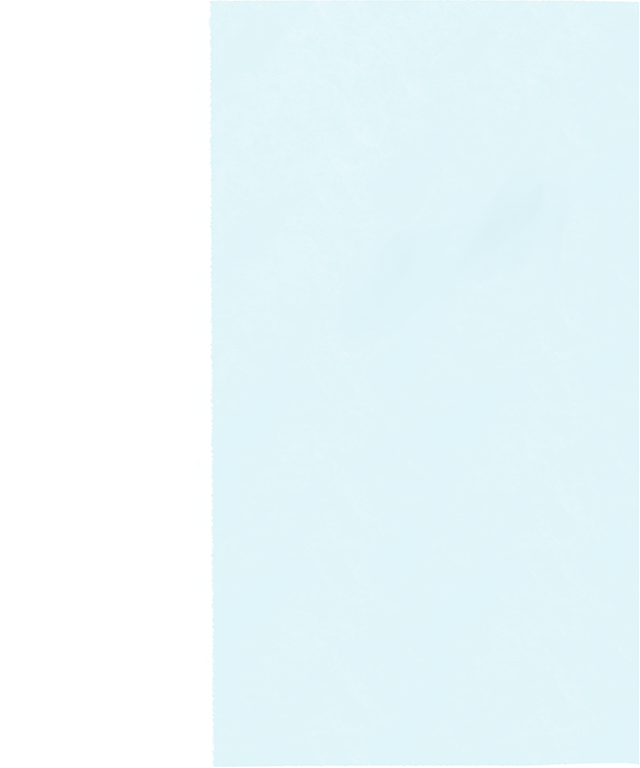
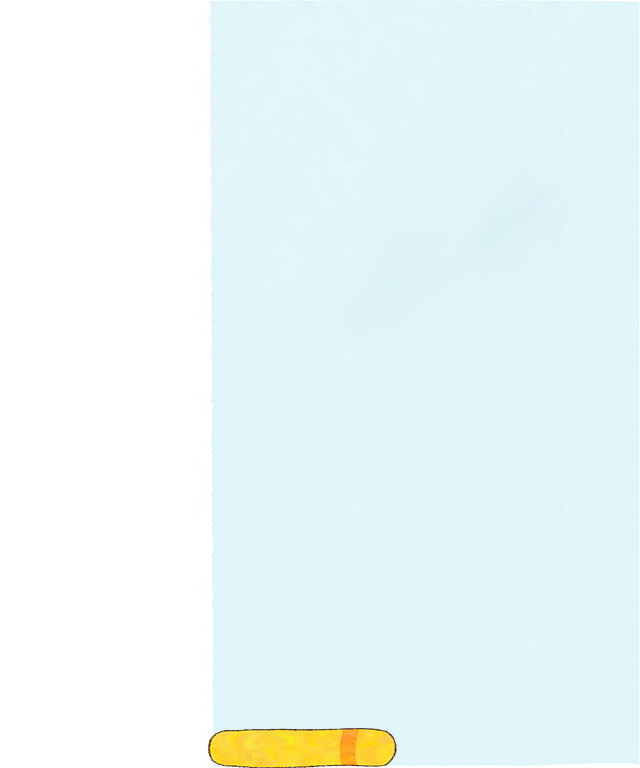
总体六

Changed region(s): [[0.3125, 0.9375, 0.625, 1.0]]

diff --git a/js/taskFirst/taskFirst.js b/js/taskFirst/taskFirst.js
@@ -3,10 +3,10 @@ function getQueryParam(param) {
     return urlParams.get(param);
 }
 
-// const selected = getQueryParam('selected');
-const taskCompleted = getQueryParam('taskCompleted');
+var selected = getQueryParam('selected');
+var taskCompleted = getQueryParam('taskCompleted');
 
-const selected = 'paintingFirst';
+// var selected = 'paintingFirst';
 
 var isTouchDevice = 'ontouchstart' in window || navigator.maxTouchPoints > 0;
 var eventType = isTouchDevice ? 'touchend' : 'click';
@@ -146,11 +146,162 @@ $(document).ready(function(){
 	});
 	
 	$('.container').on(eventType, '.kettleShined', function(){
-	    $('<img>', {
-	        'class': 'waterFirst',
-	        'src': 'images/task1/waterFirst.png',
-	        'alt': '水'
-	    }).appendTo('.container');
+	    var $movingImg = $('<img>', {
+	        'src': 'images/task1/kettleWatering.png',
+	        'alt': '浇水的水壶',
+	        'class': 'kettleWatering'
+	    });
+		
+	    $movingImg.appendTo('.container');
+	    
+	    var onAnimationEnd = function() {
+			$movingImg.remove();
+	        $('.kettleShined, .promptKettle').remove();
+	    
+	        $('<img>', {
+	            'class': 'waterFirst',
+	            'src': 'images/task1/waterFirst.png',
+	            'alt': '水'
+	        }).appendTo('.container');
+	    
+	        var additionalImages = [
+	            {
+	                class: 'brushShined',
+	                src: 'images/task1/brushShined.png',
+	                alt: '排刷'
+	            },
+	            {
+	                class: 'promptBrush',
+	                src: 'images/task1/promptBrush.png',
+	                alt: '提示'
+	            }
+	        ];
+	    
+	        $.each(additionalImages, function(index, image) {
+	            $('<img>', {
+	                'class': image.class,
+	                'src': image.src,
+	                'alt': image.alt
+	            }).appendTo('.container');
+	        });
+	    };
+    
+        var animationProperties = {
+            'bottom': '60%',
+            'left': '60%'
+        };
+        var duration = 1500;
+    
+        
+        $movingImg.animate(animationProperties, duration, onAnimationEnd);
+	});
+	
+	$('.container').on(eventType, '.brushShined', function(){
+		var $movingImg = $('<img>', {
+			'src': 'images/task1/brushWorking.png',
+			'alt': '刷东西的排刷',
+			'class': 'brushWorking'
+		});
+				
+		$movingImg.appendTo('.container');
+			    
+		var onAnimationEnd = function() {
+			$movingImg.remove();
+		    $('.brushShined, .promptBrush, #dirt').remove();
+		
+		    var additionalImages = [
+		        {
+		            class: 'towelShined',
+		            src: 'images/task1/towelShined.png',
+		            alt: '水盆毛巾'
+		        },
+		        {
+		            class: 'promptTower',
+		            src: 'images/task1/promptTowel.png',
+		            alt: '提示'
+		        }
+		    ];
+		
+		    $.each(additionalImages, function(index, image) {
+		        $('<img>', {
+		            'class': image.class,
+		            'src': image.src,
+		            'alt': image.alt
+		        }).appendTo('.container');
+		    });
+		};
+		
+		var animationProperties = {
+		    'top': '60%',
+		    'left': '60%'
+		};
+		var duration = 1500;
+		
+		$movingImg.animate(animationProperties, duration, onAnimationEnd);
+	});
+	
+	$('.container').on(eventType, '.towelShined', function(){
+	    $('.waterFirst').fadeOut(800, function() {
+	        $(this).remove();
+	    
+	        var $waterSecond = $('<img>', {
+	            'class': 'waterSecond',
+	            'src': 'images/task1/waterSecond.png',
+	            'alt': '水'
+	        }).hide().appendTo('.container');
+	
+	        $waterSecond.fadeIn(800).delay(500).fadeOut(800, function() {
+	            $(this).remove();
+	
+	            var $waterThird = $('<img>', {
+	                'class': 'waterThird',
+	                'src': 'images/task1/waterThird.png',
+	                'alt': '水'
+	            }).hide().appendTo('.container');
+	
+	            $waterThird.fadeIn(800).delay(500).fadeOut(800, function() {
+	                $(this).remove();
+					
+					var newImages = [
+					    {class: 'backgroundProgressbar', src: 'images/progressbar/background.png', alt: '背景图'},
+					    {class: 'progressbar', src: 'images/progressbar/bar.png', alt: '进度条底'},
+					    {class: 'progressbarPrompt', src: 'images/progressbar/prompt.png', alt: '提示'}
+					];
+				
+					$.each(newImages, function(index, image) {
+					    $('<img>', {
+					        'class': image.class,
+					        'src': image.src,
+					        'alt': image.alt
+					    }).appendTo('.container');
+					});
+				
+					var $div = $('<div>', {
+					    'class': 'viewBox'
+					}).appendTo('.container');
+				
+					$('<img>', {
+					    'class': 'progressbarLight',
+					    'src': 'images/progressbar/barLight.png',
+					    'alt': '进度条'
+					}).appendTo($div);
+					
+					$div.animate({
+					    'width': '10%'
+					}, {
+					    duration: 1500,
+						complete: function(){
+							taskCompleted = "First";
+							window.location.href = `mainPage.html?selected=${encodeURIComponent(selected)}&taskCompleted=${encodeURIComponent(taskCompleted)}`;
+						}
+					});
+	            });
+	        });
+	    });
+	});
+	
+	$('#buttonClose').click(function(){
+		window.location.href = `mainPage.html?selected=${encodeURIComponent(selected)}&taskCompleted=${encodeURIComponent(taskCompleted)}`;
 	});
 	
 });

diff --git a/css/taskFirst/style.css b/css/taskFirst/style.css
@@ -193,7 +193,7 @@ html, body{
 	z-index: 4;
 }
 
-.waterFirst{
+.waterFirst, .waterSecond, .waterThird{
 	position: absolute;
 	top: 6.5%;
 	left: 50%;
@@ -202,6 +202,115 @@ html, body{
 	height: 93.5vh;
 	transform: translate(-50%);
 	z-index: 3;
+}
+
+.kettleWatering{
+	position: absolute;
+	bottom: 30%;
+	left: 30%;
+	width: 44.5%;
+	z-index: 3;
+}
+
+.brushShined{
+	position: absolute;
+	bottom: 3%;
+	left: 17%;
+	width: 22.5%;
+	z-index: 4;
+}
+
+.promptBrush{
+	position: absolute;
+	bottom: 9.5%;
+	right: 35%;
+	transform: translate(50%,50%);
+	width: 36.6%;
+	z-index: 4;
+}
+
+@keyframes rotate {
+    0%, 100% {
+        transform: rotate(0deg);
+    }
+    25% {
+        transform: rotate(-30deg);
+    }
+    75% {
+        transform: rotate(30deg);
+    }
+}
+
+.brushWorking{
+	position: absolute;
+	top: 20%;
+	left: 20%;
+	width: 20.5%;
+	z-index: 3;
+	animation: rotate 0.5s linear infinite;
+}
+
+.towelShined{
+	position: absolute;
+	bottom: 1.5%;
+	left: 17%;
+	width: 29%;
+	z-index: 4;
+}
+
+.promptTower{
+	position: absolute;
+	bottom: 9.5%;
+	right: 35%;
+	transform: translate(50%,50%);
+	width: 31.4%;
+	z-index: 4;
+}
+
+.backgroundProgressbar{
+	position: absolute;
+	left: 0%;
+	top: 0%;
+	max-width: 100%;
+	max-height: 100%;
+	height: 100vh;
+	z-index: 6;
+}
+
+.progressbar{
+	position: absolute;
+	left: 50%;
+	top: 50%;
+	width: 80%;
+	transform: translate(-50%, -50%);
+	z-index: 7;
+}
+
+.viewBox{
+	position: absolute;
+	left: 8.5%;
+	top: 50%;
+	width: 0%;
+	height: 6.5%;
+	transform: translateY(-50%);
+	overflow: hidden;
+	z-index: 8;
+}
+
+.progressbarLight{
+	position: absolute;
+	left: 0%;
+	top: 0%;
+	width: 584px;
+}
+
+.progressbarPrompt{
+	position: absolute;
+	left: 50%;
+	top: 55%;
+	width: 83%;
+	transform: translate(-50%, -50%);
+	z-index: 8;
 }
 
 @media (max-aspect-ratio: 9/16){
@@ -236,6 +345,18 @@ html, body{
 	}
 	
 	.promptKettle{
+		bottom: 7%;
+	}
+	
+	.brushShined{
+		bottom: 2%;
+	}
+	
+	.promptBrush{
+		bottom: 7%;
+	}
+	
+	.promptTower{
 		bottom: 7%;
 	}
 }

diff --git a/js/main/script.js b/js/main/script.js
@@ -3,10 +3,10 @@ function getQueryParam(param) {
     return urlParams.get(param);
 }
 
-const selected = getQueryParam('selected');
-const taskCompleted = getQueryParam('taskCompleted');
+var selected = getQueryParam('selected');
+var taskCompleted = getQueryParam('taskCompleted');
 
-// const taskCompleted = 'Second';
+// var taskCompleted = 'Second';
 
 function toggleMusic(){
     var audio = document.getElementById("backgroundMusic");
